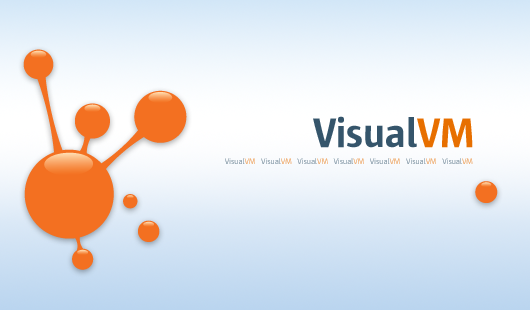
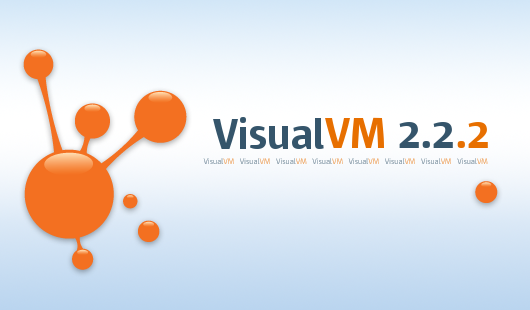
VisualVM 2.2.2 branding

Changed region(s): [[0.3925, 0.3774, 0.9358, 0.5516]]

diff --git a/visualvm/launcher/windows-src/version.h b/visualvm/launcher/windows-src/version.h
@@ -25,11 +25,11 @@
 
 #define COMPANY "Oracle Corporation"
 #define COMPONENT "VisualVM"
-#define VER "0.0.0.0"
-#define FVER 0,0,0,0
-#define BUILD_ID "0"
+#define VER "2.2.2.0"
+#define FVER 2,2,2,0
+#define BUILD_ID "20260608"
 #define INTERNAL_NAME "visualvm"
-#define COPYRIGHT "\xA9 2007, 2024, Oracle and/or its affiliates. All rights reserved."
+#define COPYRIGHT "\xA9 2007, 2026, Oracle and/or its affiliates. All rights reserved."
 #define FNAME "visualvm.exe"
-#define NAME "VisualVM Dev. build"
+#define NAME "VisualVM"
 

diff --git a/visualvm/appui/src/org/graalvm/visualvm/modules/appui/AboutAction.java b/visualvm/appui/src/org/graalvm/visualvm/modules/appui/AboutAction.java
@@ -51,7 +51,7 @@ import org.openide.windows.WindowManager;
 public final class AboutAction extends AbstractAction {
     private final static Logger LOGGER = Logger.getLogger(AboutAction.class.getName());
     
-    private String versionString = "Dev"; // Use "Dev" for development builds   // NOI18N
+    private String versionString = "2.2.2"; // Use "Dev" for development builds   // NOI18N
 
 
     public AboutAction() {

diff --git a/README.md b/README.md
@@ -1,4 +1,4 @@
-# VisualVM (master) sources repository
+# VisualVM (2.2.2) sources repository
 
 VisualVM is a visual tool integrating commandline JDK tools and lightweight profiling capabilities. See https://visualvm.github.io for details, downloads and documentation.
 
